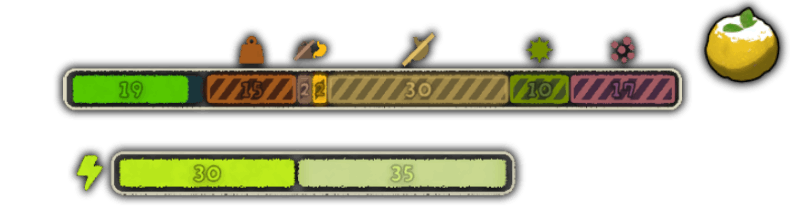
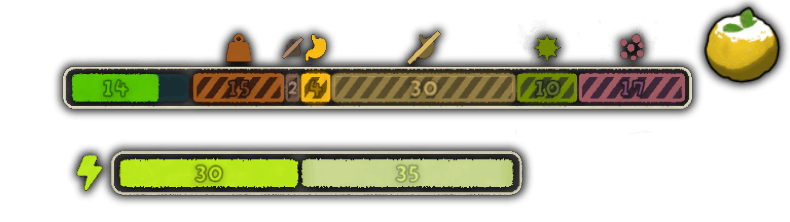
fixed float accumulation error; add clearer screenshot-2;

Changed region(s): [[0.0608, 0.1081, 0.9114, 0.5405], [0.0911, 0.6486, 0.6987, 0.9189]]

diff --git a/src/EffectPreview/Ui/BarLabel.cs b/src/EffectPreview/Ui/BarLabel.cs
@@ -73,9 +73,12 @@ namespace EffectPreview.Ui
         }
 
         // truncates to the same 0-100 "count" scale the mod's status fractions represent (0.10 -> "10")
+        // epsilon guards against native petrifyAmount landing just under a whole number (e.g. 9.999999 from float accumulation), which would otherwise floor to one less than the real value
+        private const float FormatCountEpsilon = 1e-4f;
+
         internal static string FormatCount(float fraction)
         {
-            return Mathf.FloorToInt(fraction * 100f).ToString();
+            return Mathf.FloorToInt(fraction * 100f + FormatCountEpsilon).ToString();
         }
 
         // lightly translucent version of a raw fill color, so a ghost label still reads as "ghost" without losing legibility the way the ghost bars can

diff --git a/packaging/CHANGELOG.md b/packaging/CHANGELOG.md
@@ -5,11 +5,12 @@ Full release.
 - Added support for duration based items (Lantern, Remedy Fungus, etc.) to show an icon-only preview. If such an item is held, only the icon of the designated status effect that is able to be affected by the item will change. Thanks to VanilaBOI for the suggestion!
 - Added a config option to disable the weight preview.
 - Added a config option to toggle the jetpack gauge needle preview.
-- Made jetpack and vanilla bar count options independent of the master preview setting. Thanks to SAvGEDA for pointing this out!
+- Made vanilla bar count and jetpack preview options independent of the master preview setting. Thanks to SAvGEDA for pointing this out!
 - Fixed Piton, Rope Spool, and Anti-Rope Spool not showing a weight preview when they're usable.
 - Fixed bonus stamina showing slightly off preview counts in rare cases.
 - Fixed many animations being driven by frame counts instead of delta time, resulting in slower animation speeds on lower fps.
-- Adjusted bonus stamina and Petrify animation speeds.
+- Fixed float accumulation error for the vanilla *Petrify* status effect.
+- Fine tuned bonus stamina and *Petrify* animation speeds.
 
 ## 0.2.0
 

diff --git a/packaging/README.md b/packaging/README.md
@@ -9,7 +9,7 @@ Fully client-sided: only you need to install the mod and only you will see it's 
 ## Features
 
 - See status effect changes of the held item
-- Hold an item at a campfire/stove and press **`C`** to see how it's stats would change when cooked
+- Hold an item at a lit campfire/stove and press **`C`** to see how it's stats would change when cooked
 - Tell when you'd fall unconscious or turn into a statue through item usage
 - *(Optional)* Know when you'd waste an item's precious stats
 - *(Optional)* See status effect counts/numbers
